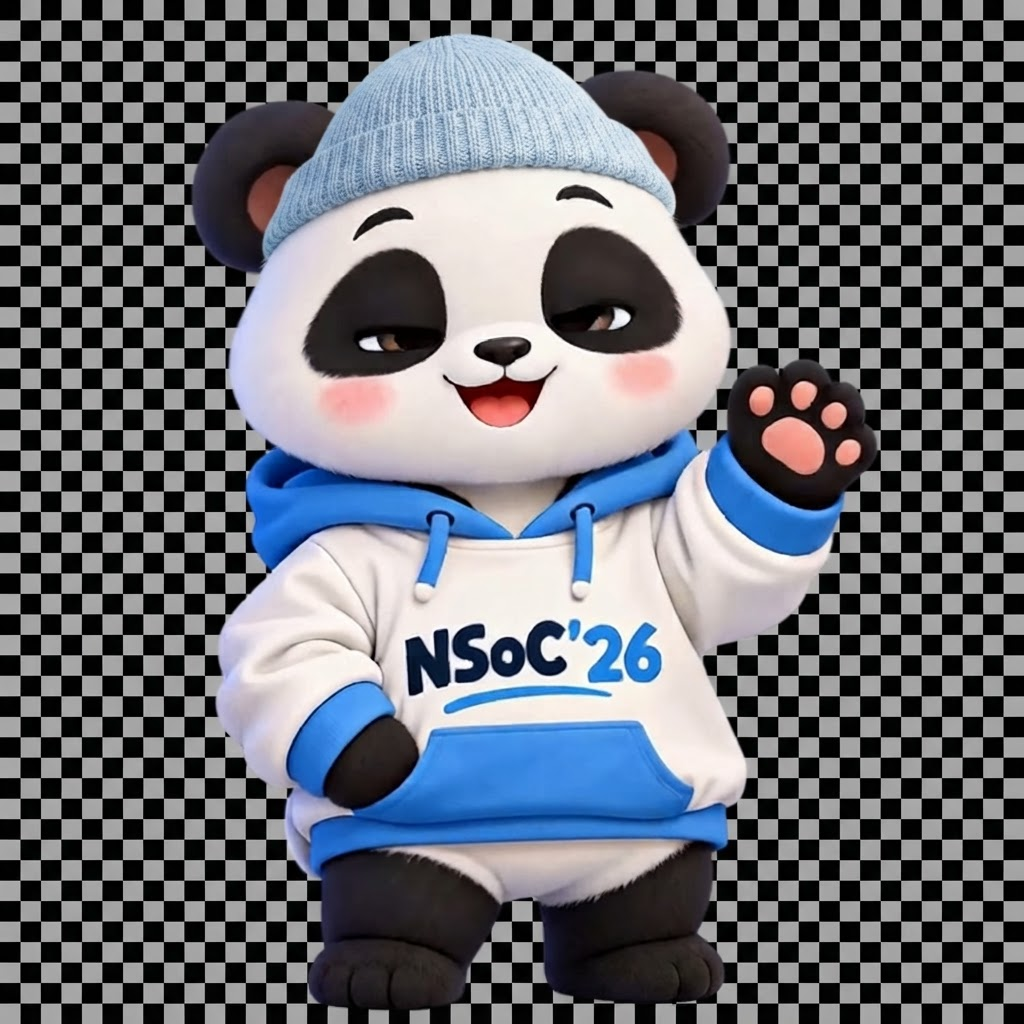
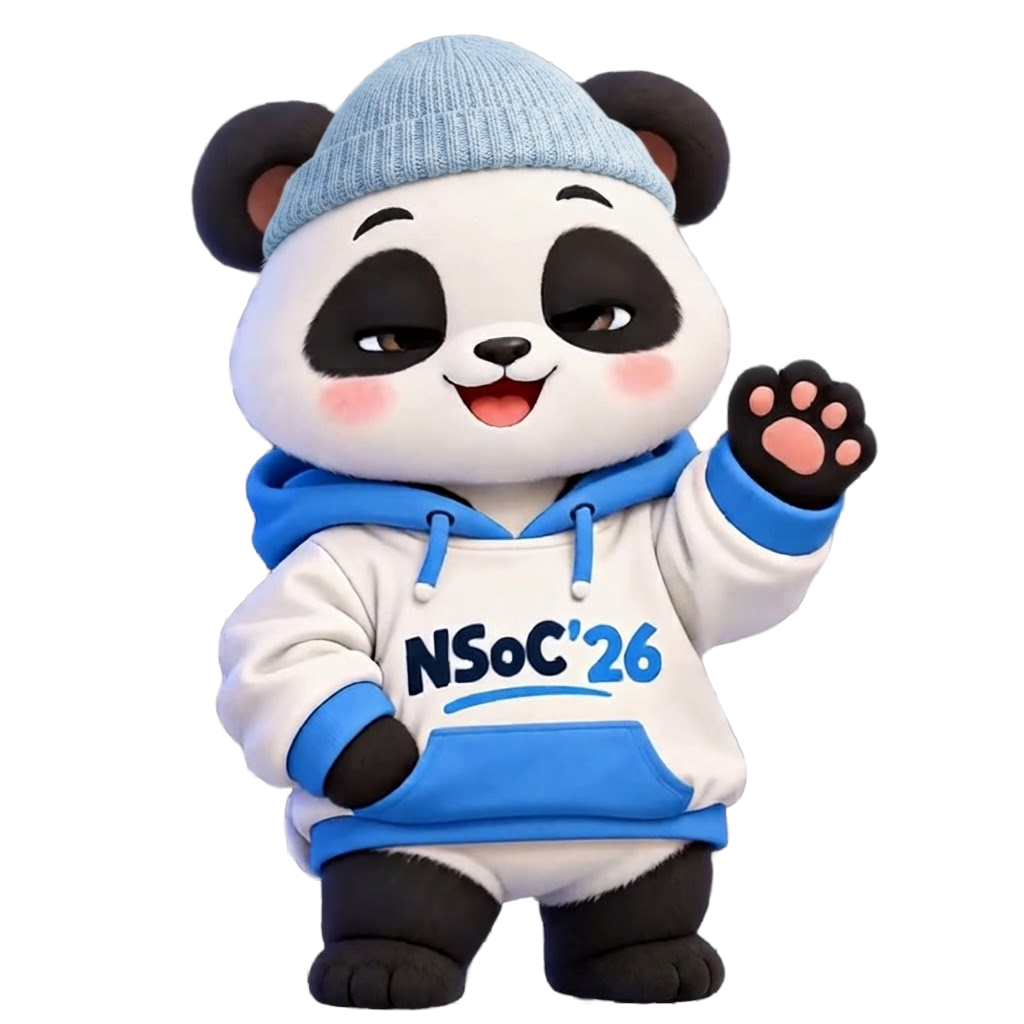
fix: remove sponsors from navbar, enable 3D tilt on all cards, clean mascot transparent png, remove floating mascot, refine mobile typography and spacing

diff --git a/src/components/sections/hero-section.tsx b/src/components/sections/hero-section.tsx
@@ -270,7 +270,7 @@ export function HeroSection({ onOpenRegister }: HeroSectionProps) {
             {/* Headline — Syne Extrabold with tight tracking */}
             <h1
               className="font-syne font-extrabold leading-[0.98] tracking-tight mb-4 text-foreground"
-              style={{ fontSize: "clamp(2.75rem, 6.8vw, 5.75rem)" }}
+              style={{ fontSize: "clamp(2.25rem, 6.2vw, 5.75rem)" }}
             >
               Nexus<br />
               Spring of<br />
@@ -384,20 +384,6 @@ export function HeroSection({ onOpenRegister }: HeroSectionProps) {
                   />
                 </div>
               </div>
-
-              {/* Mascot Caption Tag */}
-              <div
-                className="absolute bottom-2 left-2 right-2 flex justify-between px-3.5 py-1.5 rounded-lg bg-card/75 backdrop-blur-md border border-border text-[11px] font-mono"
-                style={{ zIndex: 20 }}
-              >
-                <span className="font-semibold text-foreground flex items-center gap-1.5">
-                  <span className="w-1.5 h-1.5 rounded-full bg-sky-400 animate-pulse" />
-                  NSoC ’26
-                </span>
-                <span className="text-[var(--accent)] uppercase tracking-wider font-medium">
-                  WINTER MASCOT (CLICK ME)
-                </span>
-              </div>
             </div>
           </div>
         </div>
@@ -405,40 +391,40 @@ export function HeroSection({ onOpenRegister }: HeroSectionProps) {
         {/* ── Program Statistics Bar ── */}
         <div
           ref={statsBarRef}
-          className="grid grid-cols-3 gap-4 sm:gap-8 pt-8 sm:pt-12 mt-10 border-t border-[var(--border-col)]"
+          className="grid grid-cols-3 gap-3 sm:gap-8 pt-8 sm:pt-12 mt-8 sm:mt-10 border-t border-[var(--border-col)]"
         >
-          <div className="flex flex-col items-center sm:items-start">
+          <div className="flex flex-col items-center sm:items-start text-center sm:text-left">
             <span
               className="font-syne font-extrabold leading-none tracking-tight text-foreground"
-              style={{ fontSize: "clamp(2.5rem, 4.5vw, 4rem)" }}
+              style={{ fontSize: "clamp(1.75rem, 4.5vw, 3.75rem)" }}
             >
               {statSprint}
             </span>
-            <span className="font-mono text-xs uppercase tracking-widest text-muted-foreground mt-2">
+            <span className="font-mono text-[10px] sm:text-xs uppercase tracking-widest text-muted-foreground mt-2">
               Day Sprint
             </span>
           </div>
 
-          <div className="flex flex-col items-center sm:items-start">
+          <div className="flex flex-col items-center sm:items-start text-center sm:text-left">
             <span
               className="font-syne font-extrabold leading-none tracking-tight text-foreground"
-              style={{ fontSize: "clamp(2.5rem, 4.5vw, 4rem)" }}
+              style={{ fontSize: "clamp(1.75rem, 4.5vw, 3.75rem)" }}
             >
               {statParticipants}
             </span>
-            <span className="font-mono text-xs uppercase tracking-widest text-muted-foreground mt-2">
+            <span className="font-mono text-[10px] sm:text-xs uppercase tracking-widest text-muted-foreground mt-2">
               Participants
             </span>
           </div>
 
-          <div className="flex flex-col items-center sm:items-start">
+          <div className="flex flex-col items-center sm:items-start text-center sm:text-left">
             <span
               className="font-syne font-extrabold leading-none tracking-tight text-foreground"
-              style={{ fontSize: "clamp(2.5rem, 4.5vw, 4rem)" }}
+              style={{ fontSize: "clamp(1.75rem, 4.5vw, 3.75rem)" }}
             >
               {statProjects}
             </span>
-            <span className="font-mono text-xs uppercase tracking-widest text-muted-foreground mt-2">
+            <span className="font-mono text-[10px] sm:text-xs uppercase tracking-widest text-muted-foreground mt-2">
               Real Projects
             </span>
           </div>

diff --git a/src/components/footer.tsx b/src/components/footer.tsx
@@ -68,40 +68,40 @@ export function Footer() {
           {/* Links Columns */}
           <div className="md:col-span-7 flex flex-wrap gap-16 lg:gap-24 md:justify-end">
             <div>
-              <div className="font-mono text-xs uppercase tracking-widest text-cyan-accent mb-4">
+              <div className="font-mono text-xs uppercase tracking-widest text-[#7dd3fc] mb-4">
                 Navigation
               </div>
               <ul className="space-y-3 font-inter text-sm text-[#a9bcd0]">
                 <li>
-                  <a href="#overview" className="hover:text-[#f1f7fc] transition-colors">
-                    Overview
+                  <Link href="/" className="hover:text-[#f1f7fc] transition-colors">
+                    Home
+                  </Link>
+                </li>
+                <li>
+                  <a
+                    href="https://nsoc.in/leaderboard"
+                    target="_blank"
+                    rel="noopener noreferrer"
+                    className="hover:text-[#f1f7fc] transition-colors"
+                  >
+                    Leaderboard
                   </a>
                 </li>
                 <li>
-                  <a href="#about" className="hover:text-[#f1f7fc] transition-colors">
-                    About
-                  </a>
-                </li>
-                <li>
-                  <a href="#contribution" className="hover:text-[#f1f7fc] transition-colors">
-                    Contribution
-                  </a>
-                </li>
-                <li>
-                  <a href="#rewards" className="hover:text-[#f1f7fc] transition-colors">
-                    Rewards
-                  </a>
-                </li>
-                <li>
-                  <a href="#timeline" className="hover:text-[#f1f7fc] transition-colors">
-                    Timeline
+                  <a
+                    href="https://nsoc.in/projects"
+                    target="_blank"
+                    rel="noopener noreferrer"
+                    className="hover:text-[#f1f7fc] transition-colors"
+                  >
+                    Projects
                   </a>
                 </li>
               </ul>
             </div>
 
             <div>
-              <div className="font-mono text-xs uppercase tracking-widest text-cyan-accent mb-4">
+              <div className="font-mono text-xs uppercase tracking-widest text-[#7dd3fc] mb-4">
                 Organization
               </div>
               <ul className="space-y-3 font-inter text-sm text-[#a9bcd0]">
@@ -111,8 +111,13 @@ export function Footer() {
                   </a>
                 </li>
                 <li>
-                  <a href="#community" className="hover:text-[#f1f7fc] transition-colors">
-                    Community
+                  <a
+                    href="https://nsoc.in/team"
+                    target="_blank"
+                    rel="noopener noreferrer"
+                    className="hover:text-[#f1f7fc] transition-colors"
+                  >
+                    Team
                   </a>
                 </li>
                 <li>

diff --git a/src/components/sections/sponsors-section.tsx b/src/components/sections/sponsors-section.tsx
@@ -3,6 +3,7 @@
 import React, { useEffect, useRef } from "react";
 import Image from "next/image";
 import { ArrowUpRight, Mail, ExternalLink } from "lucide-react";
+import { Tilt3D } from "@/components/tilt-3d";
 
 interface SponsorsSectionProps {
   onSponsorModalOpen: () => void;
@@ -119,25 +120,18 @@ export function SponsorsSection({ onSponsorModalOpen }: SponsorsSectionProps) {
             </button>
           </div>
 
-          {/* 3 Sponsor Cards Grid — STATIC, no tilt movement on desktop */}
+          {/* 3 Sponsor Cards Grid with 3D Tilt */}
           <div className="grid grid-cols-1 lg:grid-cols-3 gap-6 lg:gap-8">
             {sponsors.map((s) => (
-              <div
-                key={s.name}
-                className="sponsor-card group rounded-3xl p-7 sm:p-8 flex flex-col justify-between min-h-[380px] h-full relative overflow-hidden"
-                style={{
-                  border: `1px solid ${s.borderColor}`,
-                  boxShadow: s.glowColor,
-                  background: `linear-gradient(145deg, ${s.bgAccent} 0%, var(--card-bg) 55%)`,
-                  transition: "transform 300ms ease, box-shadow 300ms ease",
-                }}
-                onMouseEnter={(e) => {
-                  (e.currentTarget as HTMLDivElement).style.transform = "translateY(-4px)";
-                }}
-                onMouseLeave={(e) => {
-                  (e.currentTarget as HTMLDivElement).style.transform = "";
-                }}
-              >
+              <Tilt3D key={s.name} maxTilt={10}>
+                <div
+                  className="sponsor-card group rounded-3xl p-7 sm:p-8 flex flex-col justify-between min-h-[380px] h-full relative overflow-hidden"
+                  style={{
+                    border: `1px solid ${s.borderColor}`,
+                    boxShadow: s.glowColor,
+                    background: `linear-gradient(145deg, ${s.bgAccent} 0%, var(--card-bg) 55%)`,
+                  }}
+                >
                 {/* Diagonal sheen sweep on hover */}
                 <span
                   aria-hidden="true"
@@ -205,7 +199,8 @@ export function SponsorsSection({ onSponsorModalOpen }: SponsorsSectionProps) {
                   </a>
                 </div>
               </div>
-            ))}
+            </Tilt3D>
+          ))}
           </div>
         </div>
       </div>

diff --git a/src/components/navbar.tsx b/src/components/navbar.tsx
@@ -45,7 +45,6 @@ export function Navbar({ onOpenRegister }: NavbarProps) {
     { label: "Home", href: "/" },
     { label: "Projects", href: "https://nsoc.in/projects", external: true },
     { label: "Leaderboard", href: "https://nsoc.in/leaderboard", external: true },
-    { label: "Sponsors", href: "#sponsors" },
     { label: "Team", href: "https://nsoc.in/team", external: true },
   ];
 
@@ -53,8 +52,8 @@ export function Navbar({ onOpenRegister }: NavbarProps) {
     <header
       className={`fixed top-0 left-0 right-0 z-50 transition-all duration-300 border-b ${
         isScrolled
-          ? "h-20 bg-[var(--bg)]/90 backdrop-blur-md border-[var(--border-col)] shadow-sm"
-          : "h-22 bg-[var(--bg)]/80 backdrop-blur-sm border-[var(--border-col)]/60"
+          ? "h-16 sm:h-20 bg-[var(--bg)]/92 backdrop-blur-md border-[var(--border-col)] shadow-sm"
+          : "h-18 sm:h-20 bg-[var(--bg)]/85 backdrop-blur-sm border-[var(--border-col)]/60"
       }`}
     >
       <div className="max-w-[1280px] mx-auto h-full px-4 sm:px-6 lg:px-8 flex items-center justify-between">
@@ -198,7 +197,7 @@ export function Navbar({ onOpenRegister }: NavbarProps) {
 
       {/* Mobile Drawer */}
       {mobileMenuOpen && (
-        <div className="lg:hidden fixed inset-x-0 top-20 bg-card/98 border-b border-border p-6 shadow-2xl animate-in slide-in-from-top-4 duration-200 backdrop-blur-xl">
+        <div className="lg:hidden fixed inset-x-0 top-16 sm:top-20 bg-card/98 border-b border-border p-6 shadow-2xl animate-in slide-in-from-top-4 duration-200 backdrop-blur-xl">
           <nav className="flex flex-col gap-3 mb-6">
             {navLinks.map((link) => (
               <a

diff --git a/src/app/page.tsx b/src/app/page.tsx
@@ -14,7 +14,6 @@ import { PartnersSection } from "@/components/sections/partners-section";
 import { Footer } from "@/components/footer";
 import { RegisterModal } from "@/components/register-modal";
 import { InquiryModal } from "@/components/inquiry-modal";
-import { MascotBuddy } from "@/components/mascot-buddy";
 
 export default function HomePage() {
   const [registerOpen, setRegisterOpen] = useState(false);
@@ -73,9 +72,6 @@ export default function HomePage() {
         type={inquiryType || "sponsor"}
         onClose={() => setInquiryType(null)}
       />
-
-      {/* Floating Interactive Winter Panda Mascot Buddy */}
-      <MascotBuddy onOpenRegister={() => handleOpenRegister("Contributor")} />
     </div>
   );
 }

diff --git a/src/components/sections/steps-section.tsx b/src/components/sections/steps-section.tsx
@@ -134,7 +134,7 @@ export function StepsSection({ onOpenRegister }: StepsSectionProps) {
           {/* 4 Steps Row / Grid */}
           <div className="grid grid-cols-1 sm:grid-cols-2 lg:grid-cols-4 gap-6 sm:gap-8 relative z-10">
             {steps.map((step) => (
-              <Tilt3D key={step.number} maxTilt={7}>
+              <Tilt3D key={step.number} maxTilt={12}>
                 <div
                   className="step-item card p-6 sm:p-7 rounded-3xl transition-all duration-300 group relative h-full flex flex-col justify-between"
                 >

diff --git a/src/components/sections/partners-section.tsx b/src/components/sections/partners-section.tsx
@@ -93,7 +93,7 @@ export function PartnersSection({ onPartnerModalOpen }: PartnersSectionProps) {
       <div className="max-w-[1280px] mx-auto px-4 sm:px-6 lg:px-8 mt-14 sm:mt-16">
         <div className="grid grid-cols-1 sm:grid-cols-2 lg:grid-cols-3 gap-4 sm:gap-6">
           {partners.map((partner) => (
-            <Tilt3D key={partner.id} maxTilt={5}>
+            <Tilt3D key={partner.id} maxTilt={12}>
               <a
                 href={partner.link}
                 target="_blank"

diff --git a/src/components/sections/timeline-section.tsx b/src/components/sections/timeline-section.tsx
@@ -248,7 +248,7 @@ export function TimelineSection() {
             return (
               <Tilt3D
                 key={milestone.step}
-                maxTilt={6}
+                maxTilt={12}
                 scale={1.02}
                 enableCelebrationClick={true}
               >
